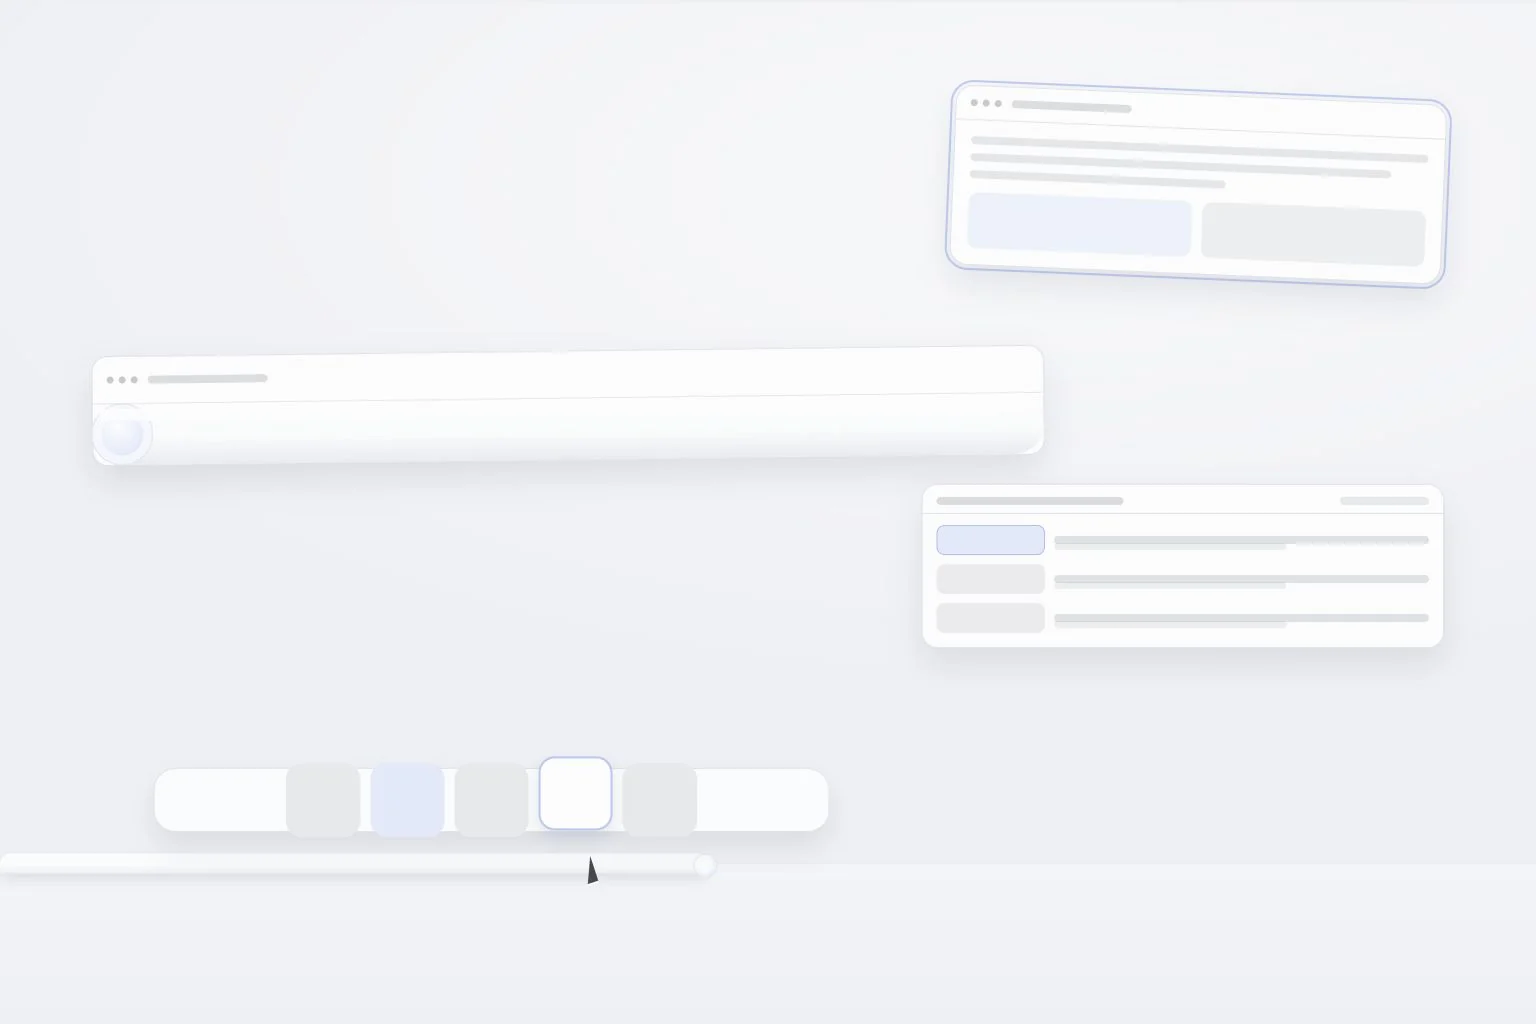
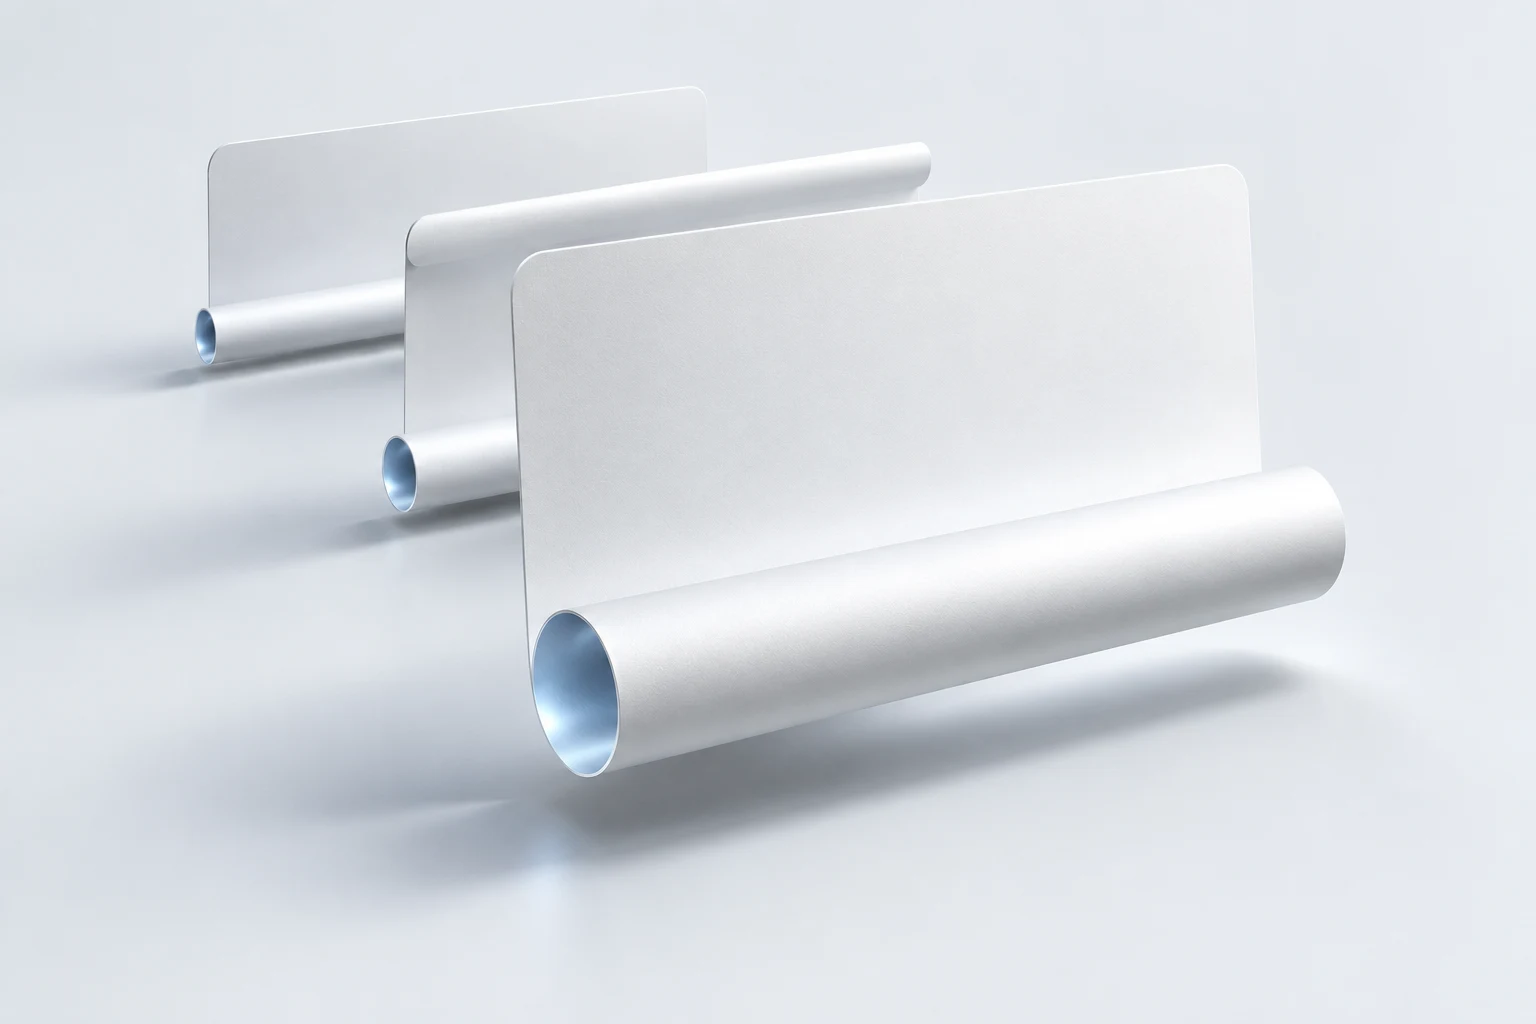
Revert the drawn hero: back to the original artwork
The hand-drawn hero stage looked worse with every pass, so the page
returns to the existing 1536 x 1024 artwork and the stage markup and CSS
are removed. The title, eyebrow and settings screenshot from the earlier
commits stay.

deployment.json records https://62e7eeb5.windowshade.pages.dev.

diff --git a/site/style.css b/site/style.css
@@ -40,56 +40,6 @@
 @media(max-width:767px){.pinning{grid-template-columns:1fr;gap:32px}.section-note{font-size:13px;max-width:430px;margin-top:18px}.pin-desk{height:300px;border-radius:18px}.pin-source{left:16px;width:82%}.pin-source strong{font-size:17px;padding:22px 18px 30px}.pin-work{right:14px;width:82%;top:112px}.shortcuts{padding-top:12px}.shortcut-list{grid-template-columns:1fr;margin-top:26px}.shortcut-list li{padding:18px 0;gap:16px;font-size:13px}.shortcut-list kbd{min-width:92px;font-size:12px;padding:7px 8px}.trust-body p{font-size:14px}}
 @media(max-width:370px){.shortcut-list kbd{min-width:82px;font-size:11px}.pin-desk{height:280px}}
 
-/* Hero stage: the app's four moves, drawn with the same tokens as the demos.
-   No bitmap, no text: it follows the light/dark theme and stays sharp. */
-.hero-stage{position:absolute;inset:0;background:var(--soft);overflow:hidden}
-.hero-stage::after{content:"";position:absolute;inset:0;background:radial-gradient(120% 80% at 68% 18%,color-mix(in srgb,var(--surface) 70%,transparent),transparent 62%);pointer-events:none}
-.stage-card{position:absolute;background:var(--surface);border:1px solid var(--line);border-radius:16px;box-shadow:0 16px 34px var(--shadow)}
-.stage-bar{display:flex;align-items:center;gap:10px;padding:0 14px;height:34px;border-bottom:1px solid var(--line)}
-.stage-dots{display:flex;gap:5px}
-.stage-dots i{width:7px;height:7px;border-radius:50%;background:color-mix(in srgb,var(--muted) 42%,transparent)}
-.stage-line{height:8px;border-radius:4px;background:color-mix(in srgb,var(--muted) 26%,transparent);flex:1;max-width:120px}
-.stage-lines{display:grid;gap:9px;padding:16px 16px 0}
-.stage-lines i{height:8px;border-radius:4px;background:color-mix(in srgb,var(--muted) 18%,transparent)}
-.stage-lines i:nth-child(2){width:92%}
-.stage-lines i:nth-child(3){width:78%}
-.stage-lines i:last-child{width:56%}
-
-/* The desktop itself, rolled a little at its leading edge: the lid effect. */
-.stage-desk{position:absolute;left:0;right:0;bottom:0;height:16%;z-index:1;background:linear-gradient(180deg,color-mix(in srgb,var(--surface) 34%,var(--soft)),var(--soft));border-top:1px solid color-mix(in srgb,var(--line) 70%,transparent)}
-.stage-desk-roll{position:absolute;left:0;top:-10px;width:46%;height:20px;border-radius:10px 10px 0 0;background:linear-gradient(180deg,var(--surface) 0%,color-mix(in srgb,var(--surface) 80%,var(--soft)) 62%,color-mix(in srgb,var(--line) 58%,var(--surface)) 100%);box-shadow:0 6px 12px var(--shadow)}
-.stage-desk-roll::after{content:"";position:absolute;right:-11px;top:0;width:22px;height:22px;border-radius:50%;background:radial-gradient(circle at 40% 36%,var(--surface) 38%,color-mix(in srgb,var(--accent) 18%,var(--surface)) 100%);border:1px solid color-mix(in srgb,var(--line) 80%,transparent)}
-
-.stage-strip{left:6%;top:34%;width:62%;transform:rotate(-0.7deg);z-index:6}
-.stage-strip .stage-bar{border-bottom:0;height:46px;border-radius:16px 16px 0 0}
-.stage-tube{position:relative;height:62px;border-radius:0 0 31px 31px;background:linear-gradient(180deg,var(--surface) 0%,color-mix(in srgb,var(--surface) 82%,var(--soft)) 58%,color-mix(in srgb,var(--line) 70%,var(--surface)) 100%);border-top:1px solid color-mix(in srgb,var(--line) 60%,transparent)}
-.stage-tube::after{content:"";position:absolute;left:6px;right:6px;top:5px;height:12px;border-radius:999px;background:color-mix(in srgb,var(--surface) 88%,transparent)}
-.stage-cap{position:absolute;left:-2px;top:50%;transform:translateY(-50%);width:62px;height:62px;border-radius:50%;background:radial-gradient(circle at 42% 38%,var(--surface),color-mix(in srgb,var(--accent) 16%,var(--surface)) 62%,color-mix(in srgb,var(--accent) 26%,var(--surface)));border:1px solid color-mix(in srgb,var(--line) 80%,transparent);box-shadow:inset 0 0 0 9px color-mix(in srgb,var(--surface) 70%,transparent)}
-
-.stage-pinned{right:6%;top:9%;width:32%;transform:rotate(2.4deg);z-index:5;outline:2px solid color-mix(in srgb,var(--accent) 34%,transparent);outline-offset:3px;border-radius:18px}
-.stage-pinned .stage-blocks{display:grid;grid-template-columns:1fr 1fr;gap:10px;padding:14px 16px 16px}
-.stage-pinned .stage-blocks i{height:56px;border-radius:10px;background:color-mix(in srgb,var(--accent) 9%,var(--surface))}
-.stage-pinned .stage-blocks i:last-child{background:color-mix(in srgb,var(--muted) 12%,var(--surface))}
-
-.stage-dock{position:absolute;left:10%;bottom:19%;width:44%;height:64px;border-radius:22px;background:color-mix(in srgb,var(--surface) 86%,transparent);border:1px solid var(--line);box-shadow:0 14px 30px var(--shadow);display:flex;align-items:center;justify-content:center;gap:10px;z-index:4}
-.stage-dock i{width:11%;aspect-ratio:1;border-radius:22%;background:color-mix(in srgb,var(--muted) 16%,var(--surface))}
-.stage-dock i:nth-child(2){background:color-mix(in srgb,var(--accent) 14%,var(--surface))}
-.stage-dock i.is-hovered{background:var(--surface);border:2px solid color-mix(in srgb,var(--accent) 40%,transparent);transform:translateY(-9%);box-shadow:0 8px 16px var(--shadow)}
-
-.stage-panel{right:6%;top:47%;width:34%;z-index:6}
-.stage-panel .stage-panel-head{display:flex;justify-content:space-between;gap:12px;padding:12px 14px 8px;border-bottom:1px solid var(--line)}
-.stage-panel .stage-panel-head i{height:8px;border-radius:4px;background:color-mix(in srgb,var(--muted) 28%,transparent)}
-.stage-panel .stage-panel-head i:first-child{width:38%}
-.stage-panel .stage-panel-head i:last-child{width:18%;background:color-mix(in srgb,var(--muted) 16%,transparent)}
-.stage-panel .stage-panel-list{display:grid;gap:9px;padding:11px 14px 14px;list-style:none;margin:0}
-.stage-panel .stage-panel-list li{display:grid;grid-template-columns:22% 1fr;gap:9px;align-items:center}
-.stage-panel .stage-panel-list i{height:100%;min-height:30px;border-radius:8px;background:color-mix(in srgb,var(--muted) 14%,var(--surface))}
-.stage-panel .stage-panel-list li:first-child i{background:color-mix(in srgb,var(--accent) 14%,var(--surface));border:1px solid color-mix(in srgb,var(--accent) 38%,transparent)}
-.stage-panel .stage-panel-list b{display:block;height:8px;border-radius:4px;background:color-mix(in srgb,var(--muted) 22%,transparent)}
-.stage-panel .stage-panel-list b::after{content:"";display:block;margin-top:7px;width:62%;height:7px;border-radius:4px;background:color-mix(in srgb,var(--muted) 13%,transparent)}
-.stage-pointer{position:absolute;left:38%;bottom:14%;width:0;height:0;border-left:11px solid transparent;border-right:0 solid transparent;border-top:0 solid transparent;border-bottom:26px solid var(--ink);transform:rotate(-18deg);filter:drop-shadow(0 2px 0 var(--surface));z-index:7}
-@media(max-width:767px){.stage-strip{width:72%;top:26%}.stage-pinned{width:38%;top:6%}.stage-panel{width:40%;top:48%}.stage-dock{left:6%;width:52%;bottom:23%}}
-
 /* Window browsing: the fourth surface shares the shading/pinning rhythm. */
 .browsing{display:grid;grid-template-columns:.78fr 1.22fr;gap:8%;align-items:center;border-top:1px solid var(--line)}
 .browse-points{list-style:none;margin:26px 0 0;padding:0;display:grid;gap:18px;max-width:360px}
